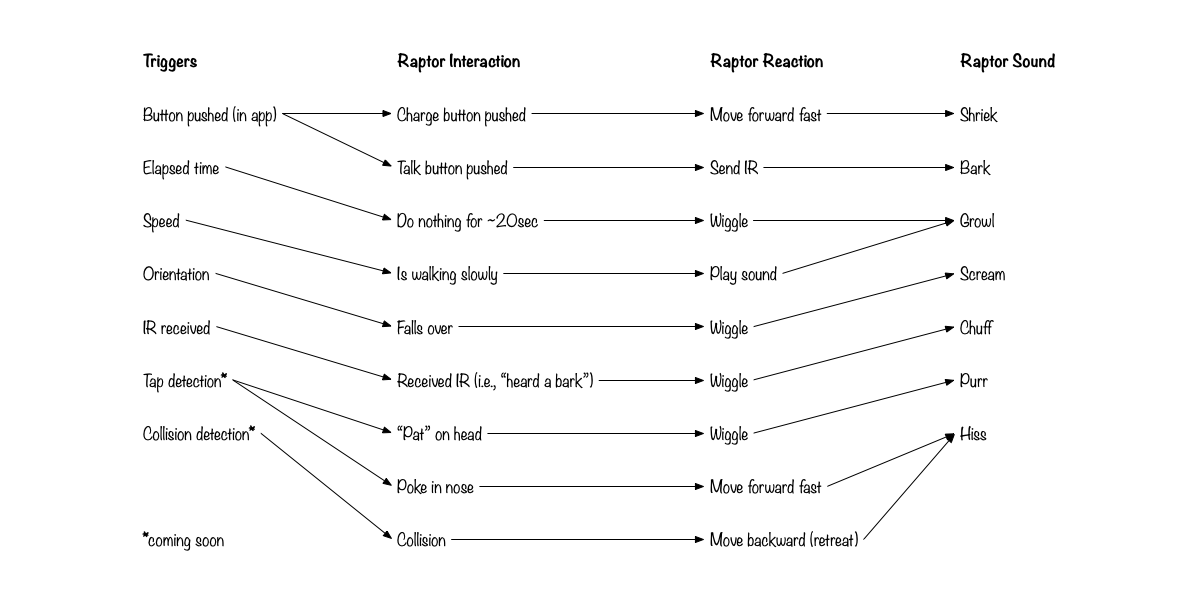
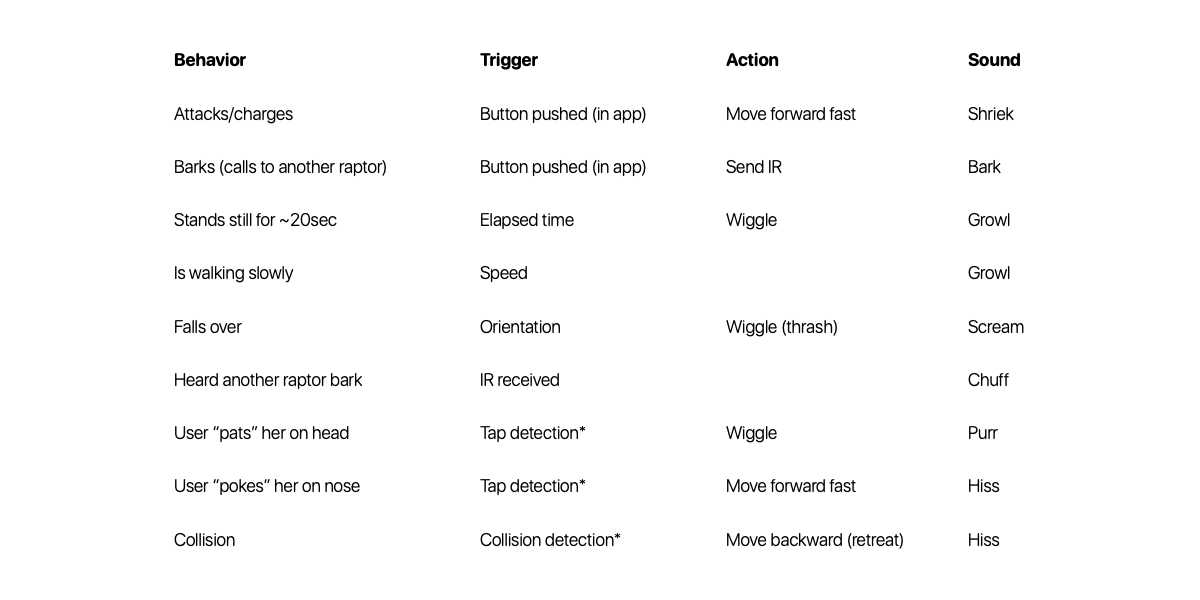
update kjw graphic

diff --git a/portfolio/kjw.html b/portfolio/kjw.html
@@ -55,7 +55,7 @@
             Solution
           </h5>
           <figure class="figure">
-            <img class="img-fluid figure-img border" src="/images/kjw/mapping2.png">
+            <img class="img-fluid figure-img border" src="/images/kjw/mapping.png">
           </figure>
           <p>
             Because of the aggressive timeline, I needed to be pragmatic: I mapped the current capabilities of our apps and robots onto a proposed set of “dinosaur” interactions we could build from those.
